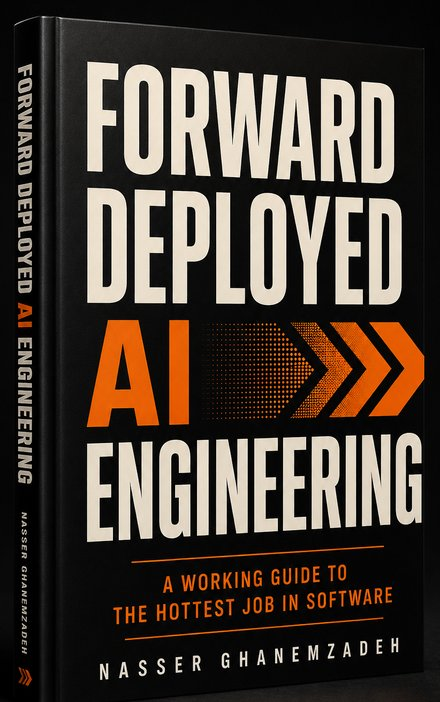
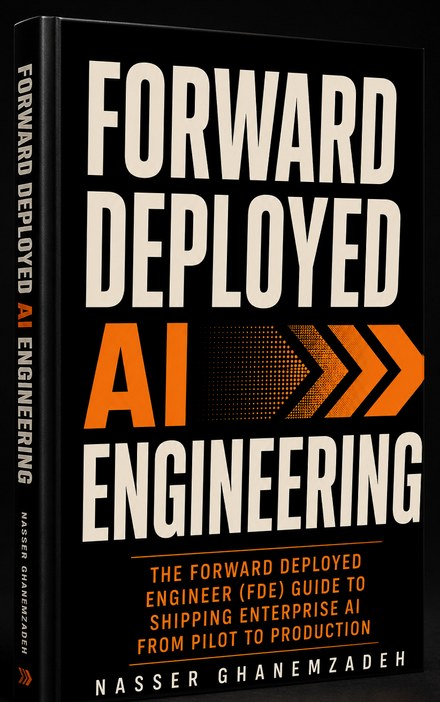
FDE book: new cover with the current subtitle
- cover.png/.jpg: new front cover (same design, subtitle "The Forward
  Deployed Engineer (FDE) Guide to Shipping Enterprise AI from Pilot to
  Production").
- cover-3d*.png/.jpg: new cover mapped onto the existing 3D render's face,
  keeping its spine, edges and lighting; tight crop matches the old framing.
- og-cover.jpg: re-rendered from new template scripts/og/fde-book-card.html
  (dateless; drops the stale old subtitle and "224 pages").
- Cache-bust the changed image URLs (?v=20261101); accurate alt text.

Changed region(s): [[0.1182, 0.0299, 0.975, 1.0], [0.1182, 0.5983, 0.1477, 0.6282]]

diff --git a/scripts/og/fde-book-card.html b/scripts/og/fde-book-card.html
@@ -1,0 +1,53 @@
+<!doctype html>
+<html lang="en">
+<head>
+<meta charset="utf-8">
+<title>FDE book OG card (1200x630)</title>
+<!--
+  Source template for assets/book/fde/og-cover.jpg, the link-preview image for
+  /books/forward-deployed-ai-engineering/. Render with:
+    python3 scripts/og/render.py scripts/og/fde-book-card.html assets/book/fde/og-cover.jpg
+  Dateless on purpose (no page count or version): X, LinkedIn and Slack cache the image
+  for days. After a re-render, bump the ?v= on the og:image / twitter:image URLs
+  (Cloudflare edge-caches the JPEG). Colors mirror the :root tokens in main.css.
+  Bottom 88px stay clear: X draws its title pill over that strip.
+-->
+<link rel="preconnect" href="https://fonts.googleapis.com">
+<link rel="preconnect" href="https://fonts.gstatic.com" crossorigin>
+<link href="https://fonts.googleapis.com/css2?family=Alegreya+Sans:wght@400;500;700&family=Cormorant+Garamond:ital,wght@0,500;0,600;0,700;1,500&display=block" rel="stylesheet">
+<style>
+  html, body { width: 1200px; height: 630px; margin: 0; overflow: hidden; background: #181818; }
+  body { font-family: "Alegreya Sans", system-ui, sans-serif; color: #d4d4d4; -webkit-font-smoothing: antialiased; }
+  .card { position: relative; box-sizing: border-box; width: 1200px; height: 630px; padding: 56px 64px 88px 470px; display: flex; flex-direction: column; }
+  .glow { position: absolute; right: -120px; top: -160px; width: 640px; height: 460px; background: radial-gradient(closest-side, rgba(200,154,62,.16), transparent 75%); }
+  .book { position: absolute; left: 34px; top: 14px; height: 556px; width: auto;
+          -webkit-mask-image: linear-gradient(to right, transparent 0, #000 9%, #000 91%, transparent 100%), linear-gradient(to bottom, transparent 0, #000 6%, #000 90%, transparent 100%);
+          -webkit-mask-composite: source-in;
+                  mask-image: linear-gradient(to right, transparent 0, #000 9%, #000 91%, transparent 100%), linear-gradient(to bottom, transparent 0, #000 6%, #000 90%, transparent 100%);
+                  mask-composite: intersect; }
+  .rule { width: 80px; height: 4px; background: #c89a3e; position: relative; }
+  .site { margin-top: 22px; font-size: 18px; font-weight: 500; letter-spacing: .14em; text-transform: uppercase; color: #888; position: relative; }
+  .body { flex: 1; display: flex; flex-direction: column; justify-content: center; position: relative; }
+  .eyebrow { font-size: 20px; font-weight: 500; letter-spacing: .12em; text-transform: uppercase; color: #c89a3e; }
+  .title { margin: 12px 0 0; font-family: "Cormorant Garamond", Georgia, serif; font-weight: 600; font-size: 70px; line-height: 1.02; letter-spacing: -.01em; color: #f5f5f5; }
+  .hook { margin: 18px 0 0; font-size: 26px; line-height: 1.35; color: #d4d4d4; max-width: 640px; }
+  .row { margin-top: 28px; display: flex; align-items: center; gap: 14px; }
+  .chip { display: inline-block; padding: 9px 20px; border-radius: 999px; border: 2px solid currentColor; font-size: 18px; font-weight: 700; letter-spacing: .14em; text-transform: uppercase; line-height: 1; color: #c89a3e; }
+  .note { font-size: 21px; color: #888; }
+</style>
+</head>
+<body>
+<div class="card">
+  <div class="glow"></div>
+  <img class="book" src="../../assets/book/fde/cover-3d.png" alt="">
+  <div class="rule"></div>
+  <div class="site">ghanemzadeh.com</div>
+  <div class="body">
+    <div class="eyebrow">A book by Nasser Ghanemzadeh</div>
+    <h1 class="title">Forward Deployed AI Engineering</h1>
+    <p class="hook">The Forward Deployed Engineer (FDE) Guide to Shipping Enterprise AI from Pilot to Production</p>
+    <div class="row"><span class="chip">Paperback</span><span class="chip">Kindle</span><span class="note">&nbsp;On Amazon.</span></div>
+  </div>
+</div>
+</body>
+</html>

diff --git a/books/forward-deployed-ai-engineering/index.html b/books/forward-deployed-ai-engineering/index.html
@@ -32,7 +32,7 @@
   <meta property="og:title" content="Forward Deployed Engineer Book (FDE): Forward Deployed AI Engineering">
   <meta property="og:description" content="The forward deployed engineer book: what an FDE does, how engagements run, and how to get hired. 304 pages, updated August 2026. First two chapters free.">
   <meta property="og:url" content="https://ghanemzadeh.com/books/forward-deployed-ai-engineering/">
-  <meta property="og:image" content="https://ghanemzadeh.com/assets/book/fde/og-cover.jpg">
+  <meta property="og:image" content="https://ghanemzadeh.com/assets/book/fde/og-cover.jpg?v=20261101">
   <meta property="og:image:width" content="1200">
   <meta property="og:image:height" content="630">
   <meta property="book:author" content="Nasser Ghanemzadeh">
@@ -42,7 +42,7 @@
   <meta name="twitter:card" content="summary_large_image">
   <meta name="twitter:title" content="Forward Deployed Engineer Book (FDE): Forward Deployed AI Engineering">
   <meta name="twitter:description" content="The forward deployed engineer book: what an FDE does, how engagements run, and how to get hired. 304 pages, updated August 2026. First two chapters free.">
-  <meta name="twitter:image" content="https://ghanemzadeh.com/assets/book/fde/og-cover.jpg">
+  <meta name="twitter:image" content="https://ghanemzadeh.com/assets/book/fde/og-cover.jpg?v=20261101">
 
   <script type="application/ld+json">
   {
@@ -263,8 +263,8 @@
         <div class="book-hero__grid">
           <div class="book-hero__cover">
             <picture>
-              <source type="image/jpeg" srcset="/assets/book/fde/cover.jpg">
-              <img src="/assets/book/fde/cover.png" alt="Forward Deployed AI Engineering book cover. The title is set in classic serif on a dark background." width="640" height="960" fetchpriority="high" decoding="async" loading="eager">
+              <source type="image/jpeg" srcset="/assets/book/fde/cover.jpg?v=20261101">
+              <img src="/assets/book/fde/cover.png?v=20261101" alt="Forward Deployed AI Engineering book cover: the title in bold condensed capitals with orange chevrons on a black background, subtitled The Forward Deployed Engineer (FDE) Guide to Shipping Enterprise AI from Pilot to Production." width="640" height="960" fetchpriority="high" decoding="async" loading="eager">
             </picture>
           </div>
           <div>

diff --git a/newsletter/index.html b/newsletter/index.html
@@ -157,7 +157,7 @@
         <p class="afs-subhead">Subscribe to my weekly newsletter and I'll send you the opening chapters of <em>Forward Deployed AI Engineering</em> and <em>Founder Mode</em> in your first email. After that, one short letter a week: one real decision, run through one mental model.</p>
         <div class="nl-hero__covers">
           <div class="nl-hero__cover nl-hero__cover--fde">
-            <img src="/assets/book/fde/cover-3d-tight.jpg" alt="Forward Deployed AI Engineering hardcover book" width="440" height="702" fetchpriority="high" decoding="async" loading="eager">
+            <img src="/assets/book/fde/cover-3d-tight.jpg?v=20261101" alt="Forward Deployed AI Engineering hardcover book" width="440" height="702" fetchpriority="high" decoding="async" loading="eager">
           </div>
           <div class="nl-hero__cover nl-hero__cover--fm">
             <picture>
@@ -183,8 +183,8 @@
         <div class="nl-cards">
           <a class="nl-card" href="/books/forward-deployed-ai-engineering/">
             <picture>
-              <source type="image/jpeg" srcset="/assets/book/fde/cover.jpg">
-              <img src="/assets/book/fde/cover.png" alt="Forward Deployed AI Engineering book cover" width="76" height="114" decoding="async" loading="lazy">
+              <source type="image/jpeg" srcset="/assets/book/fde/cover.jpg?v=20261101">
+              <img src="/assets/book/fde/cover.png?v=20261101" alt="Forward Deployed AI Engineering book cover" width="76" height="114" decoding="async" loading="lazy">
             </picture>
             <div>
               <p class="nl-card__kicker">Chapters 1 and 2</p>

diff --git a/index.html b/index.html
@@ -325,8 +325,8 @@
           </a>
           <a class="nl-card" href="/books/forward-deployed-ai-engineering/">
             <picture>
-              <source type="image/jpeg" srcset="/assets/book/fde/cover.jpg">
-              <img src="/assets/book/fde/cover.png" alt="Forward Deployed AI Engineering book cover" width="76" height="114" decoding="async" loading="lazy">
+              <source type="image/jpeg" srcset="/assets/book/fde/cover.jpg?v=20261101">
+              <img src="/assets/book/fde/cover.png?v=20261101" alt="Forward Deployed AI Engineering book cover" width="76" height="114" decoding="async" loading="lazy">
             </picture>
             <div>
               <p class="nl-card__kicker">304 pages · Version 1.5</p>

diff --git a/books/index.html b/books/index.html
@@ -189,7 +189,7 @@
           <article class="book-card">
             <a class="book-card__link" href="/books/forward-deployed-ai-engineering/">
               <div class="book-card__cover">
-                <img src="/assets/book/fde/cover.jpg" alt="Forward Deployed AI Engineering book cover" width="320" height="480" loading="lazy">
+                <img src="/assets/book/fde/cover.jpg?v=20261101" alt="Forward Deployed AI Engineering book cover" width="320" height="480" loading="lazy">
               </div>
               <div class="book-card__body">
                 <p class="book-card__eyebrow">2026</p>
